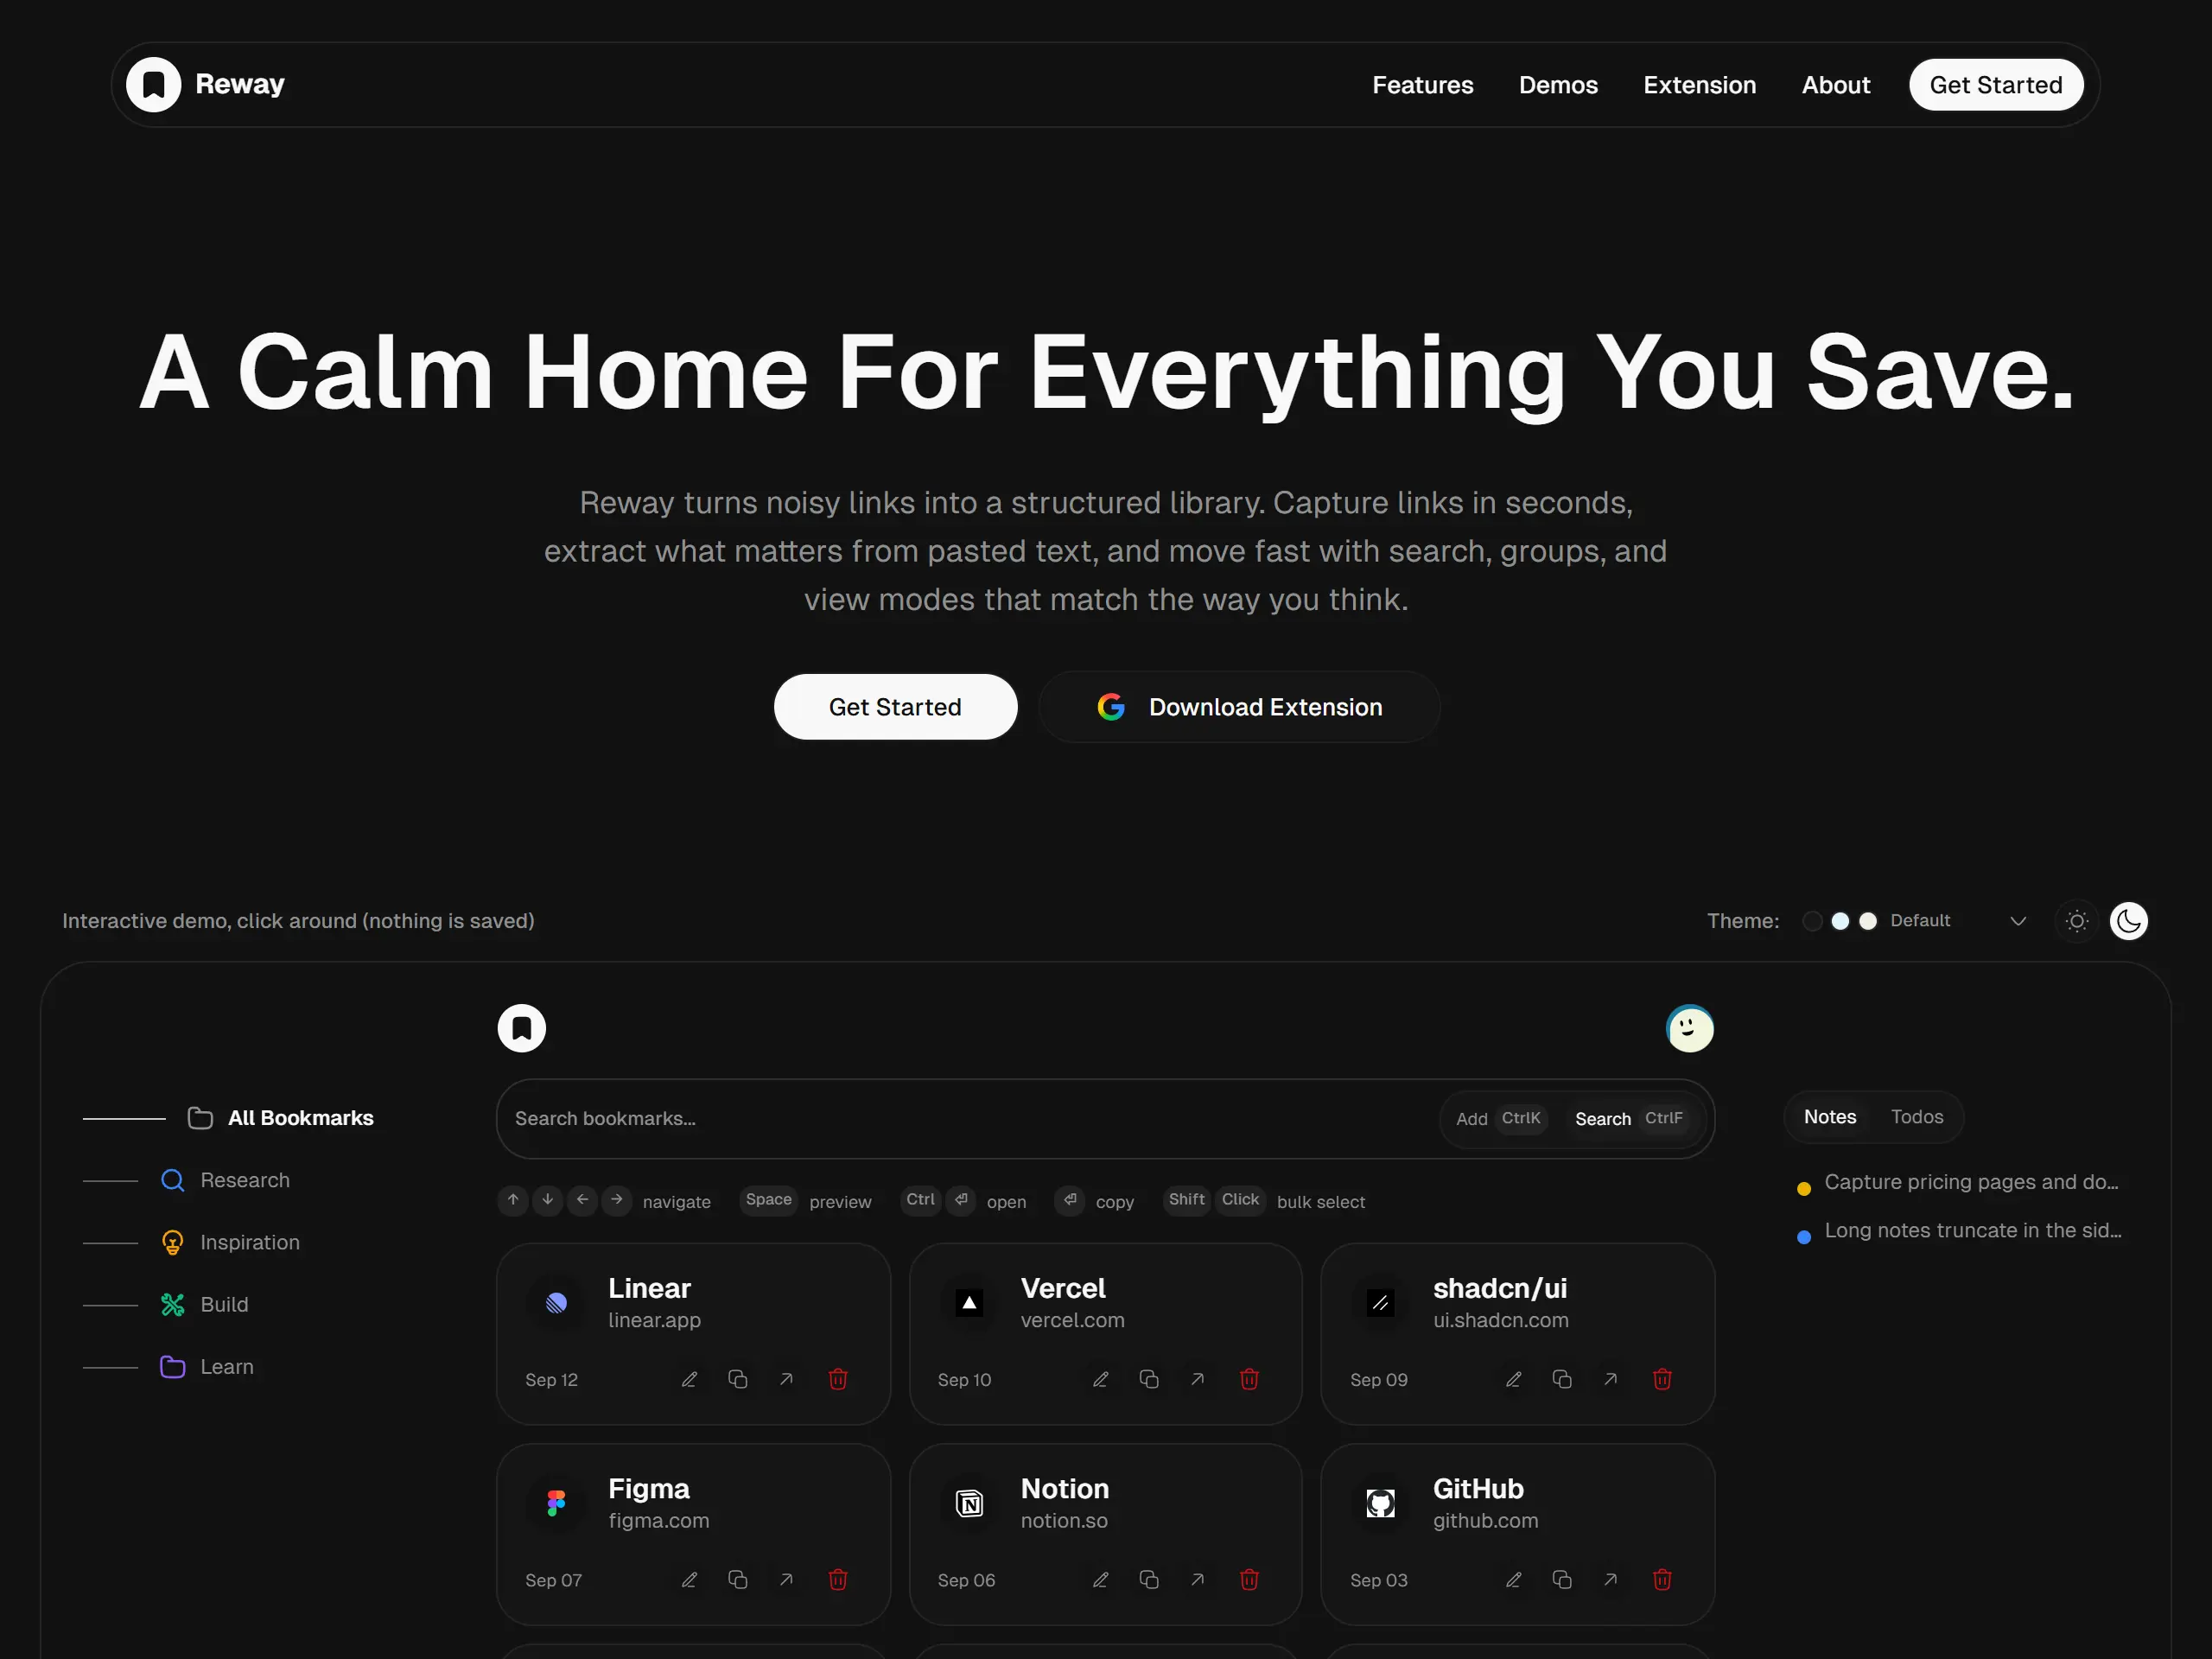
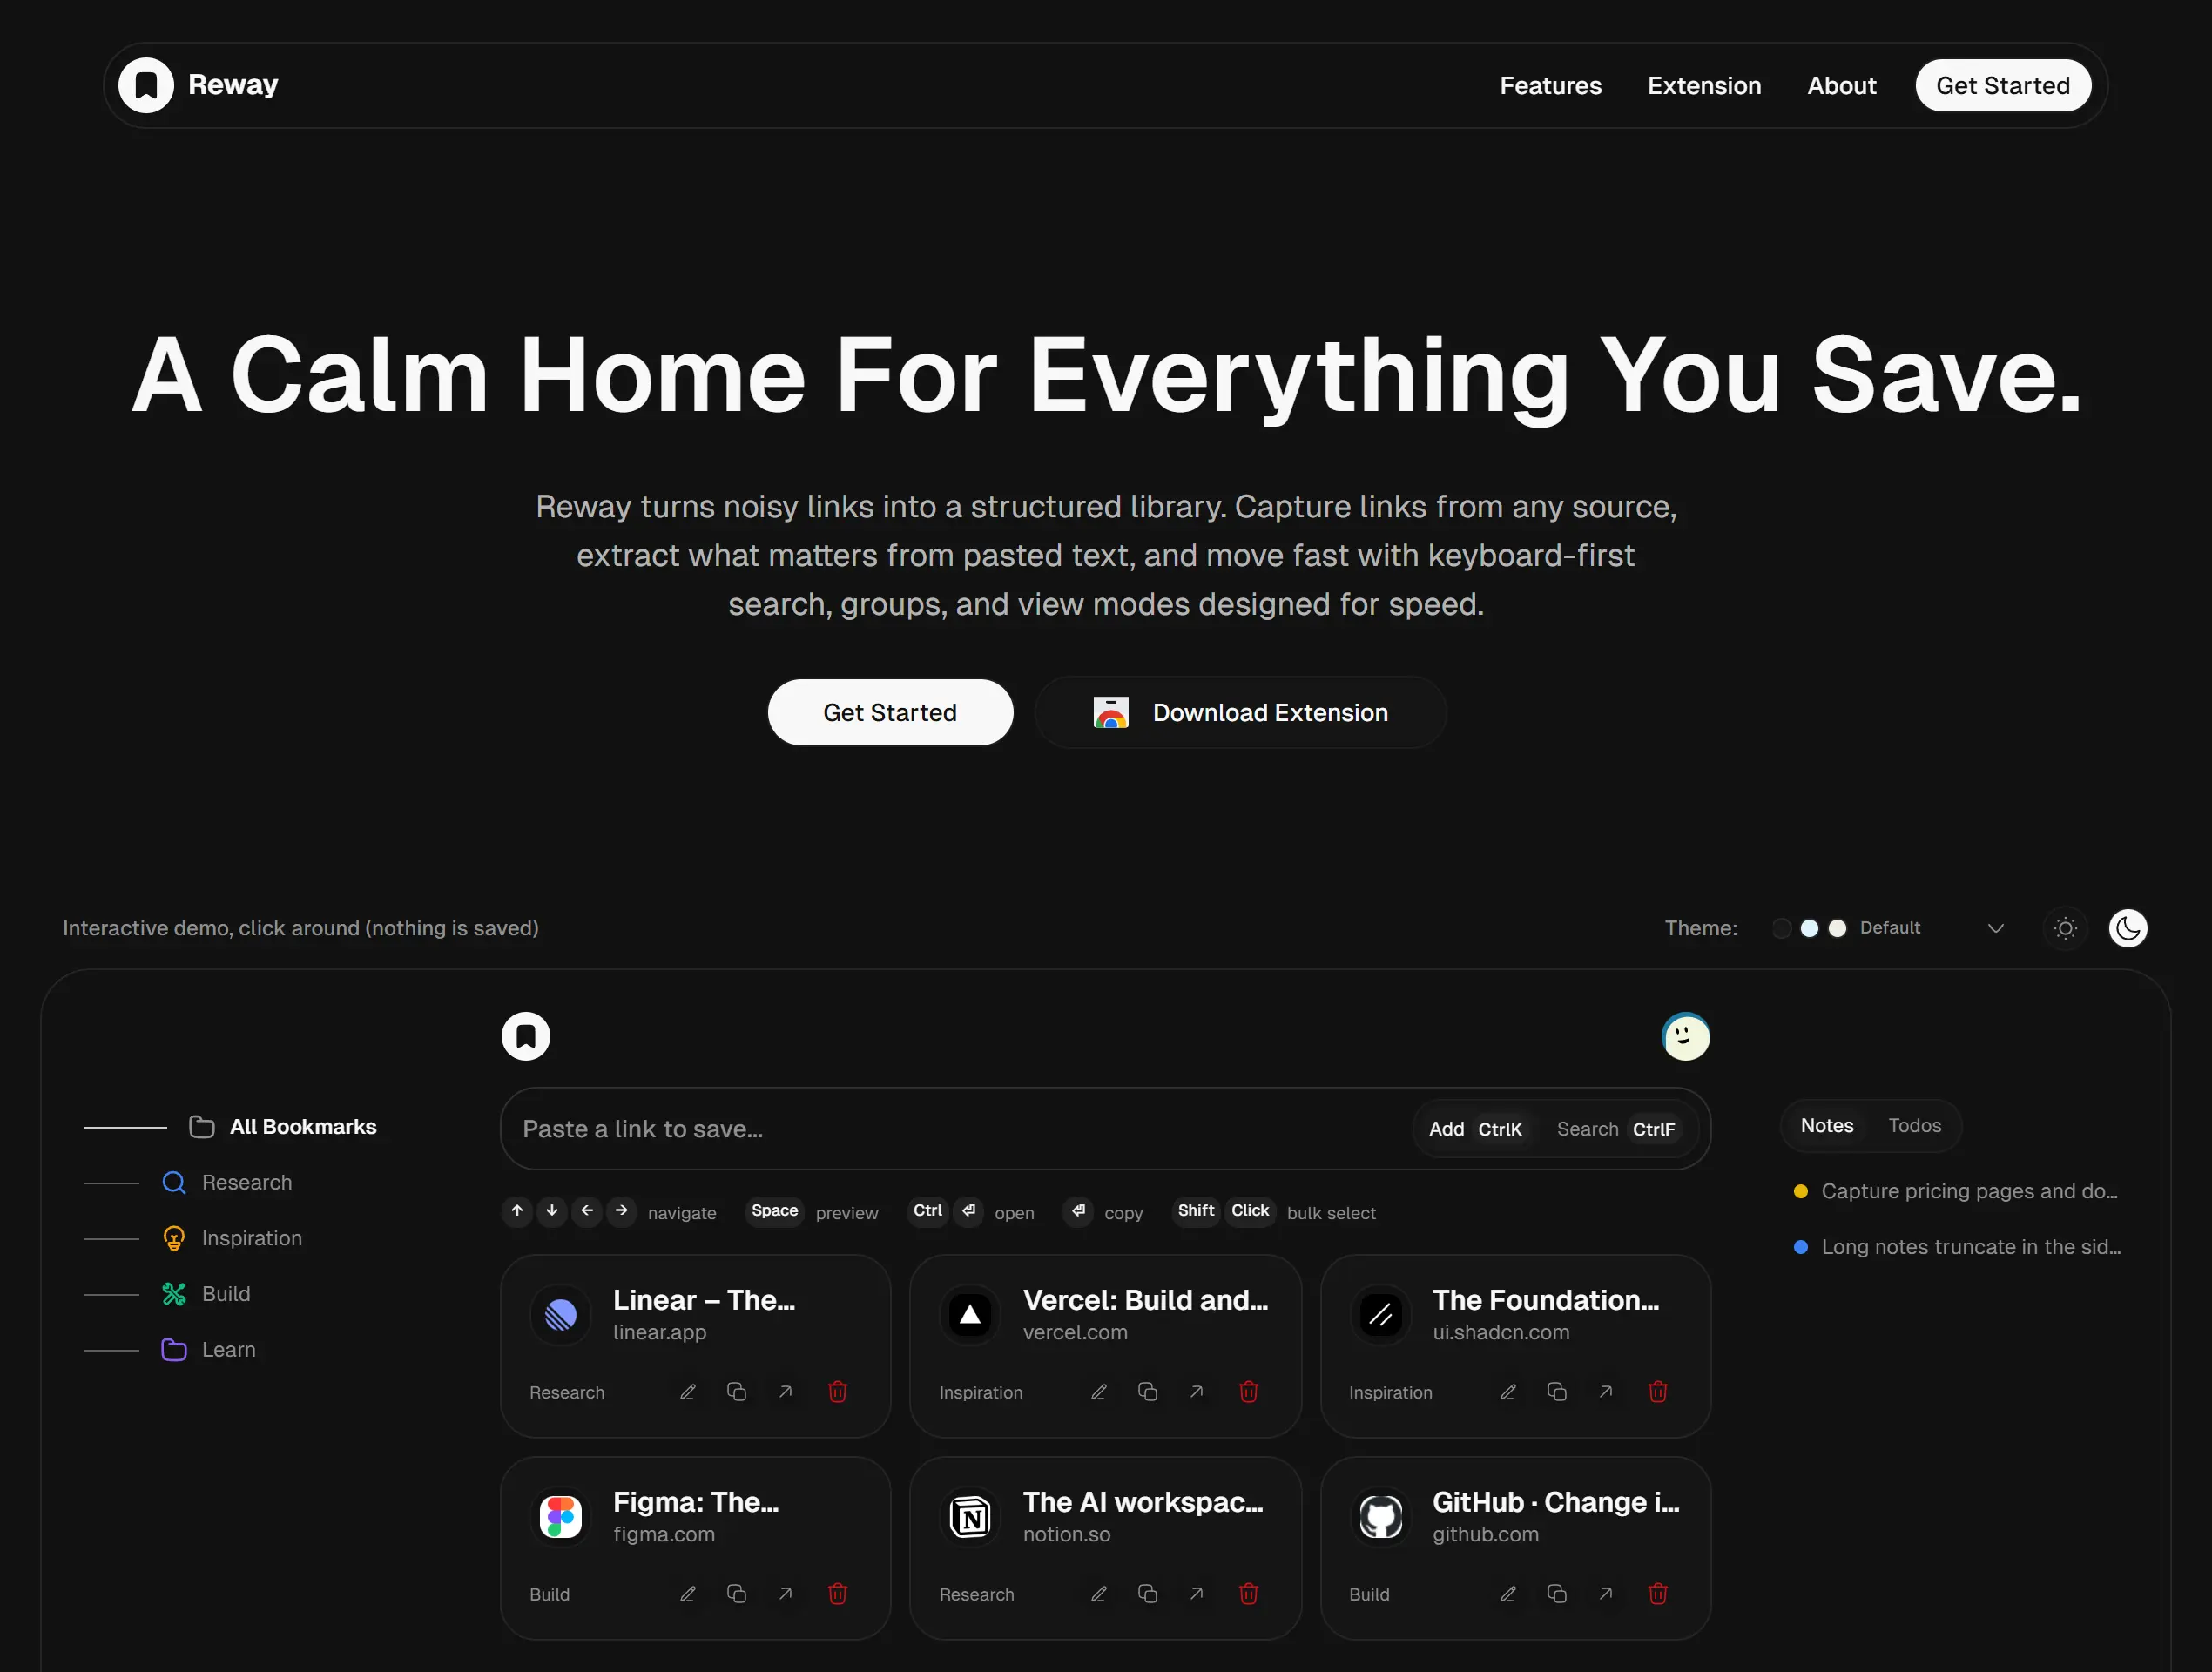
feat: update reway project status to live and add links

diff --git a/src/features/portfolio/data/projects.ts b/src/features/portfolio/data/projects.ts
@@ -5,9 +5,9 @@ export const PROJECTS: Project[] = [
     id: "Reway",
     slug: "reway",
     title: "Reway",
-    link: "",
-    github: "",
-    post: "",
+    link: "https://www.reway.page/",
+    github: "https://github.com/mohamed-g-shoaib/reway",
+    post: "https://www.linkedin.com/posts/mohamed-g-shoaib_%D9%85%D8%B4%D9%83%D9%84%D8%A9-%D9%83%D9%84%D9%86%D8%A7-%D8%A8%D9%86%D9%82%D8%B9-%D9%81%D9%8A%D9%87%D8%A7-%D9%84%D9%85%D8%A7-%D8%A7%D9%84%D9%84%D9%8A%D9%86%D9%83%D8%A7%D8%AA-%D8%A7%D9%84%D9%84%D9%8A-%D8%A8%D9%86%D8%AD%D8%AA%D8%A7%D8%AC%D9%87%D8%A7-activity-7433162768834285568-gTXu?utm_source=social_share_send&utm_medium=member_desktop_web&rcm=ACoAAFBpshwBEQfaP7_ezFl885oMg_0UXZ0vsZM",
     screenshot: "/assets/projects/reway/reway.webp",
     background: "/assets/projects/reway/reway-bg.webp",
     skills: [
@@ -16,7 +16,7 @@ export const PROJECTS: Project[] = [
       "Tailwind CSS",
       "shadcn/ui",
       "Supabase",
-      "Framer Motion",
+      "Motion",
       "Driver.js",
       "Dnd-kit",
     ],
@@ -30,12 +30,12 @@ Solution:
 - Built a centralized bookmarking platform with smart paste-to-bookmark extraction, grouped organization, real-time Supabase sync, and a Chrome MV3 extension for instant page capture and bulk actions.
 
 Architecture:
-- Next.js 16 App Router (Turbopack) + React 19 + Tailwind CSS + shadcn/ui, with Supabase (PostgreSQL + Auth + Realtime), Chrome MV3 extension, and optimistic UI patterns for responsive interactions..
+- Next.js 16 App Router (Turbopack) + React 19 + Tailwind CSS + shadcn/ui, with Supabase (PostgreSQL + Auth + Realtime), Chrome MV3 extension, and optimistic UI patterns for responsive interactions.
 `,
-    logo: "https://reway-app.vercel.app/favicon.ico",
+    logo: "https://www.reway.page/favicon.ico",
     isExpanded: true,
-    status: "soon",
-    type: "Agency",
+    status: "live",
+    type: "Open Source",
   },
   {
     id: "Devloop",
@@ -56,7 +56,7 @@ Architecture:
       "Resend",
       "next-intl",
       "React Hook Form",
-      "Framer Motion",
+      "Motion",
       "Cloudflare Turnstile",
     ],
     description: `
@@ -69,7 +69,7 @@ Solution:
 - Built a localized Next.js website with RTL support, theme switching, performance-focused loading strategies for animations, and a Resend-backed contact form.
 
 Architecture:
-- Next.js 16 App Router (Turbopack) + React 19 + Tailwind CSS 4, with next-intl for i18n (en/ar), next-themes for theming, Framer Motion for animations, and Resend for contact email delivery.
+- Next.js 16 App Router (Turbopack) + React 19 + Tailwind CSS 4, with next-intl for i18n (en/ar), next-themes for theming, Motion for animations, and Resend for contact email delivery.
 `,
     logo: "https://www.devloop.software/favicon.ico",
     isExpanded: true,
@@ -93,7 +93,7 @@ Architecture:
       "Resend",
       "next-intl",
       "React Hook Form",
-      "Framer Motion",
+      "Motion",
       "TanStack Query",
     ],
     description: `

diff --git a/src/features/portfolio/components/projects/project-grid-item.tsx b/src/features/portfolio/components/projects/project-grid-item.tsx
@@ -3,9 +3,9 @@ import Image from "next/image";
 import Link from "next/link";
 
 import { UTM_PARAMS } from "@/config/site";
-import type { Project } from "@/features/portfolio/types/projects";
 import { ProjectStatus } from "@/features/portfolio/components/projects/project-status";
 import { ProjectType } from "@/features/portfolio/components/projects/project-type";
+import type { Project } from "@/features/portfolio/types/projects";
 import { cn } from "@/lib/utils";
 import { addQueryParams } from "@/utils/url";
 